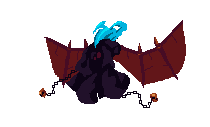
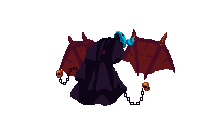
code: include boss atack

Changed region(s): [[0.1714, 0.1654, 0.8857, 0.8504], [0.4286, 0.4016, 0.4857, 0.4724], [0.4857, 0.378, 0.5143, 0.4016]]

diff --git a/src/Boss.java b/src/Boss.java
@@ -58,7 +58,9 @@ public class Boss extends Enemy{
         for (int i = 0; i < boss_idle_l.length; i++) {
             boss_idle_l[i] = new Image("res/boss_res/normal_boss/boss" + i + ".png");
         }
-        //new coment
+        for (int i = 0; i < boss_atk_l.length; i++) {
+            boss_atk_l[i] = new Image("res/boss_res/normal_boss/boss_atk" + i + ".png");
+        }
     }
 
     private void include_boss_animations(){
@@ -92,12 +94,20 @@ public class Boss extends Enemy{
             setImage(boss_idle_l[indexIdle]);
         }));
         idleL.setCycleCount(Timeline.INDEFINITE);
+
+        // ataque modo normal
+        atkL = new Timeline(new KeyFrame(Duration.millis(100), e -> {
+            indexAtk = (indexAtk + 1) % boss_atk_l.length;
+            setImage(boss_atk_l[indexAtk]);
+        }));
+        atkL.setCycleCount(boss_atk_l.length);
     }
 
     public void run(Player player) {
         movement(player);
         if (boss_ready_to_atk(player)) {
             atkL();
+            idleL.stop();
         }
     }
 
@@ -105,8 +115,9 @@ public class Boss extends Enemy{
         return getX() < player.getImageView().getX() + player.getWidth();
     }
 
-    public void atkL(){}
-
+    public void atkL(){
+        atkL.play();
+    }
     public void atk_rageL(){
         atkrageL.play();
     }
@@ -133,6 +144,7 @@ public class Boss extends Enemy{
         // Verificar a maior distância entre o Player e o Boss
         if (Math.abs(deltaX) > Math.abs(deltaY)) {
             idleL.play();
+            atkL.stop();
             if (deltaX > 0) {
                 setX(getX() + speed);
             } else {

diff --git a/src/GameLoop.java b/src/GameLoop.java
@@ -52,11 +52,11 @@ public class GameLoop {
                             enemy.followPlayer(player);
                             hud[0].update_enemy_hud_position(0,enemy.getX()+enemy.getFitWidth()/4,enemy.getY()-50);
                             if (enemy.enemy_collision_hit(player)) {
-//                                enemy.getAtkL().play();
+                                enemy.getAtkL().play();
                                 playerlife--;
                                 System.out.println("Player hp: " + playerlife);
                             } else if(enemy.enemy_collision_hit(player)){
-
+                                enemy.getAtkL().play();
                             }else{
                                 enemy.getAtkL().stop();
                             }
